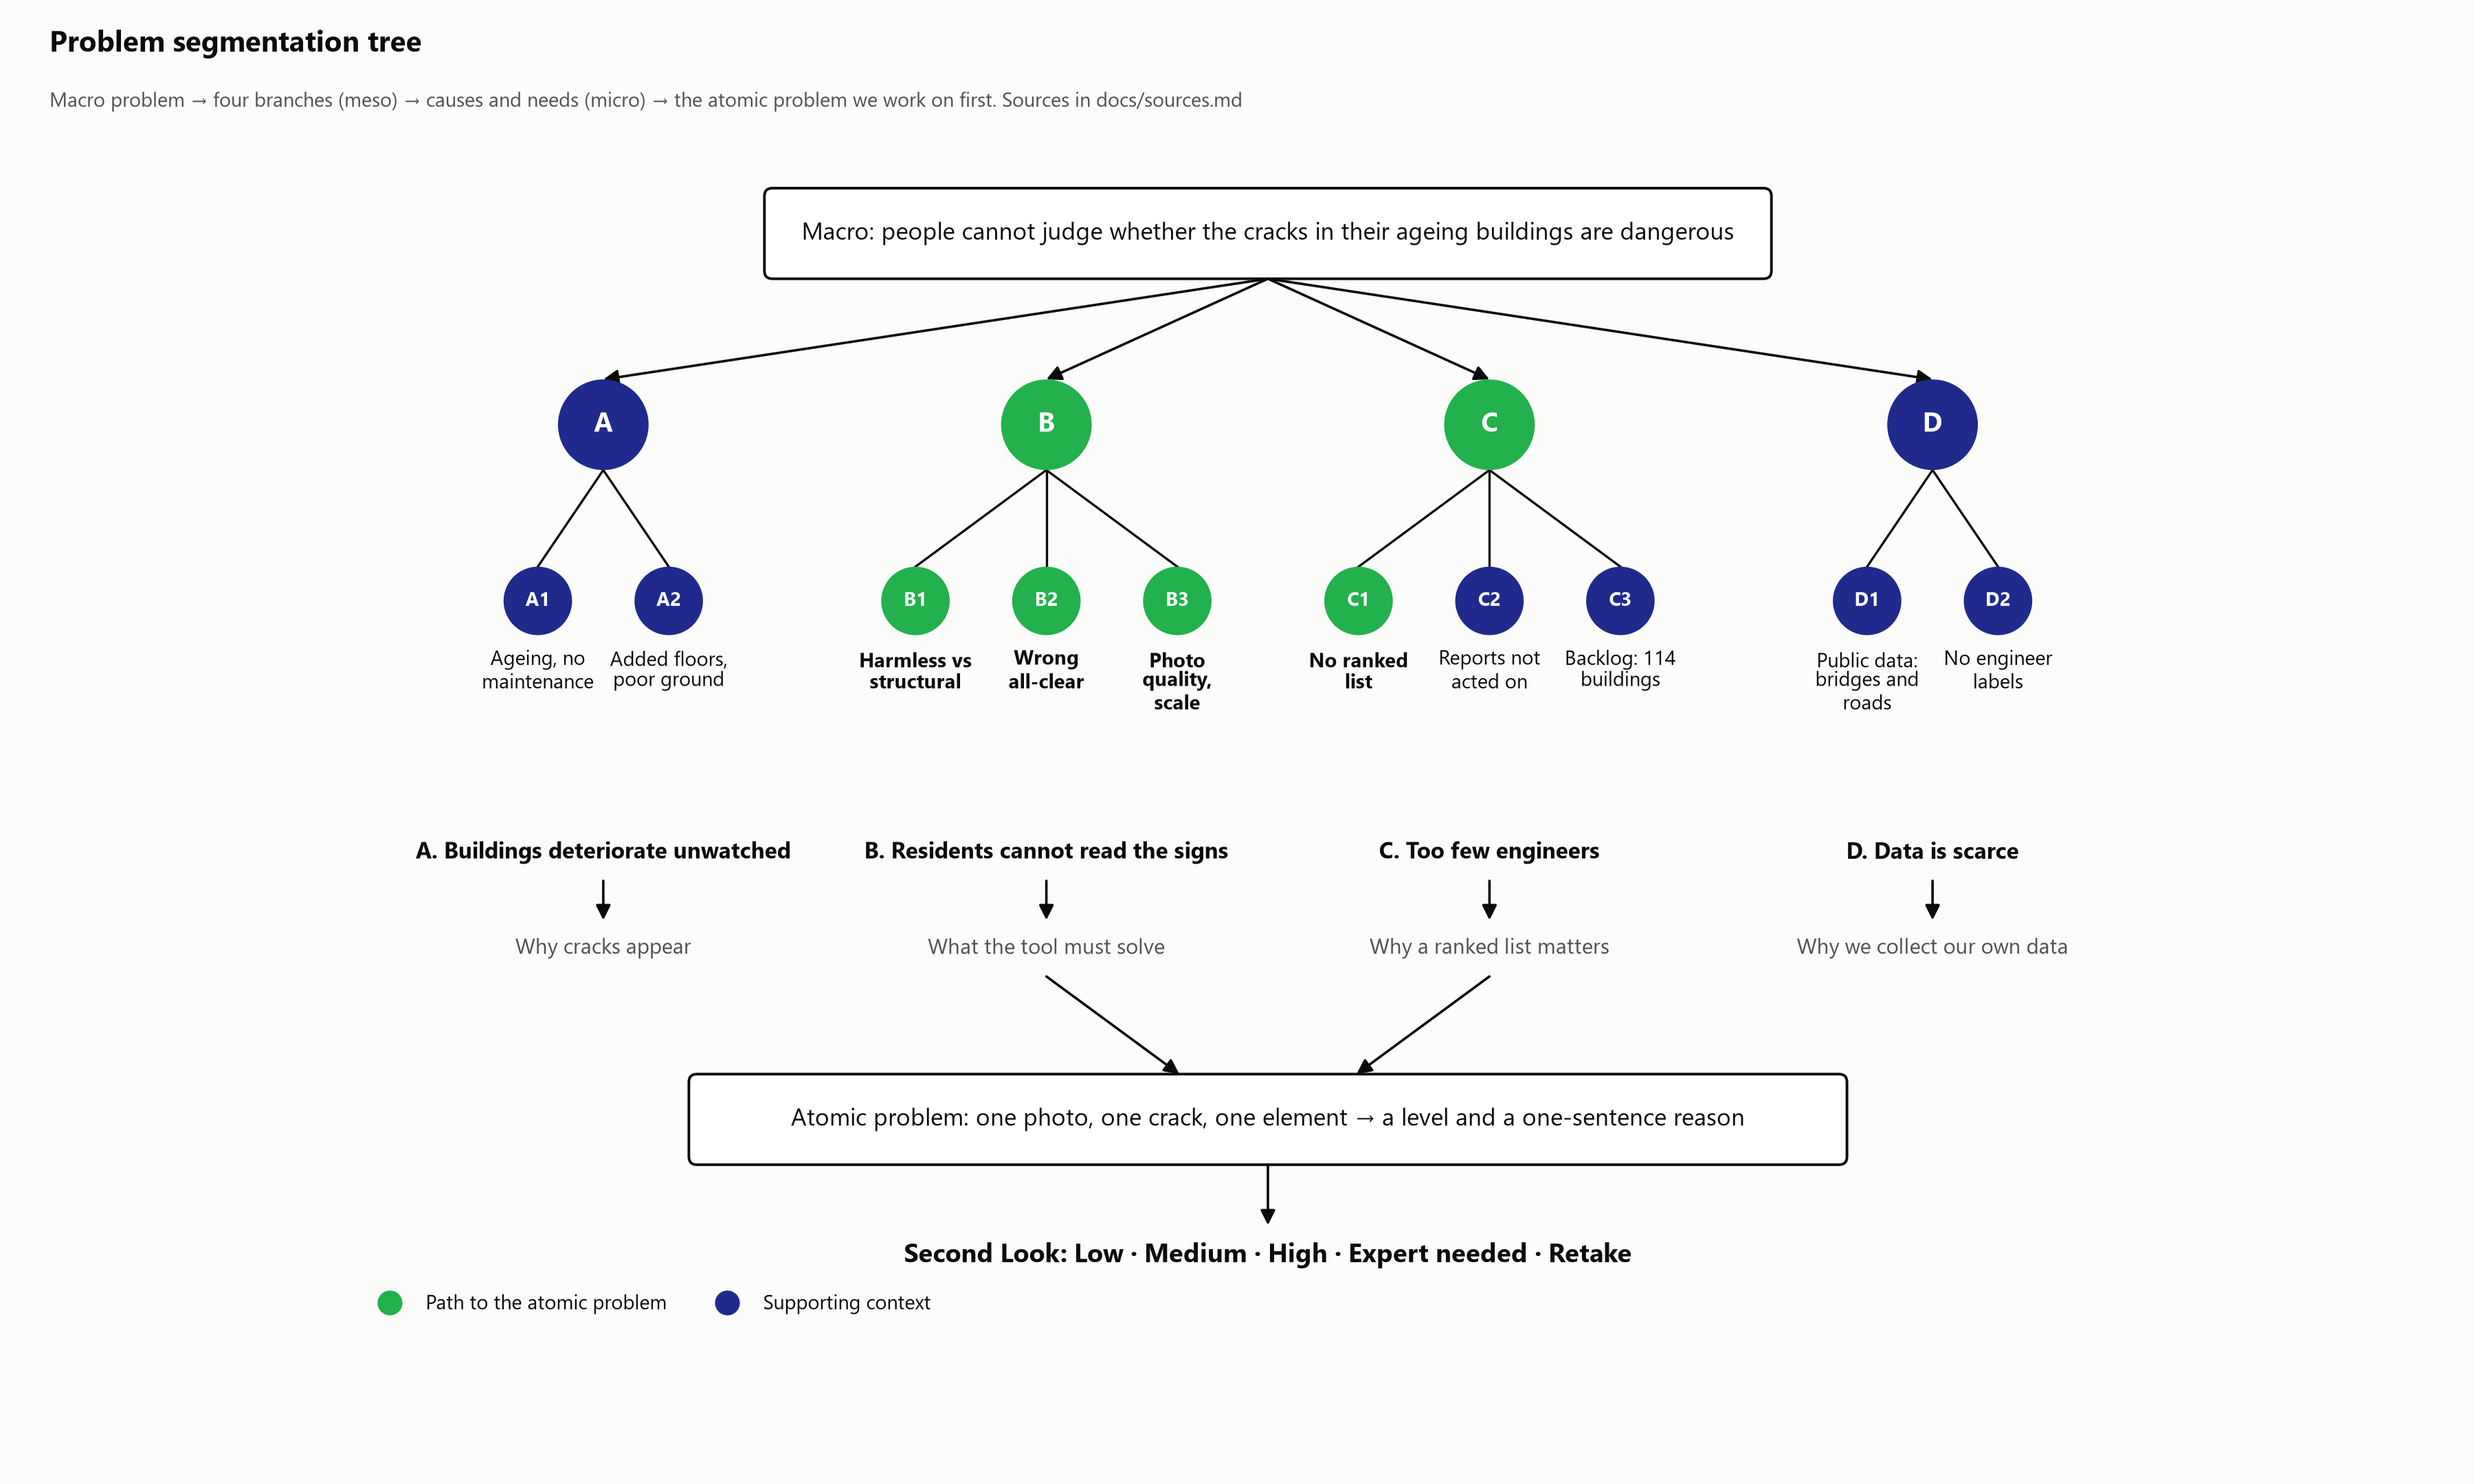
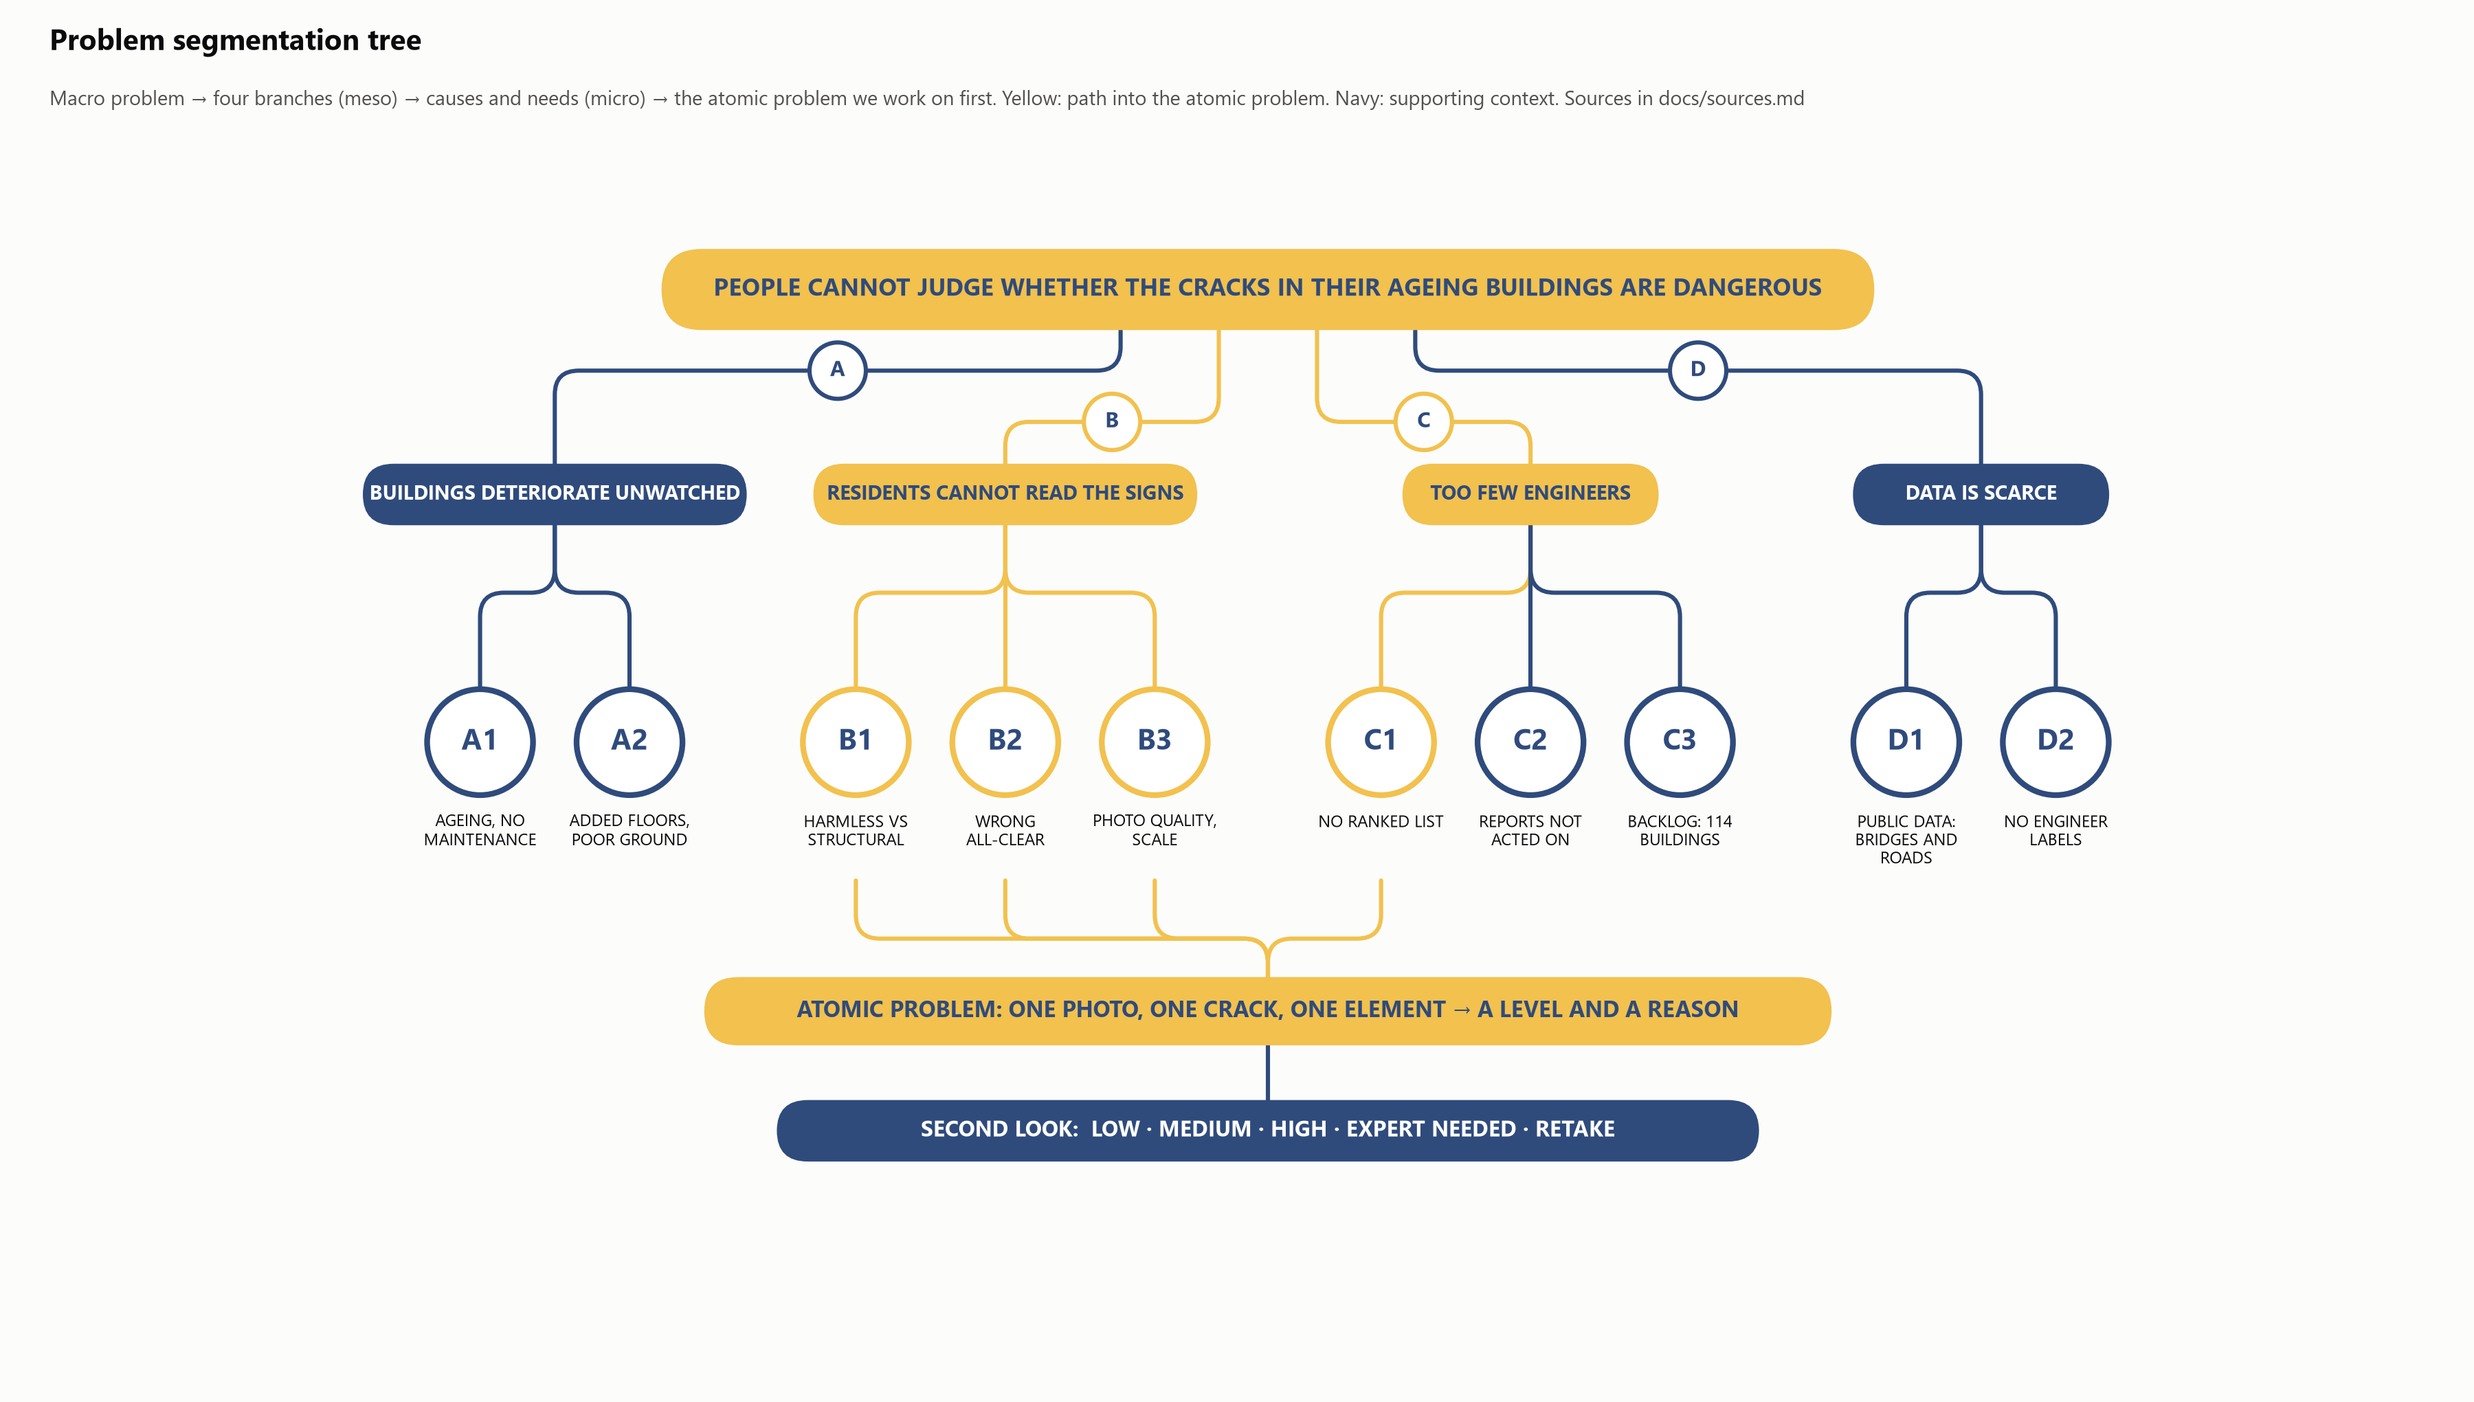
Segmentation tree: flowchart style with yellow path and navy context

diff --git a/src/viz/figures.py b/src/viz/figures.py
@@ -159,69 +159,97 @@ TREE = {
     "D. Data is scarce": ["D1 Public data: bridges and roads", "D2 No engineer labels"],
 }
 ATOMIC_FROM = {"B1", "B2", "B3", "C1"}
-TREE_RESULTS = {"A": "Why cracks appear", "B": "What the tool must solve", "C": "Why a ranked list matters",
-                "D": "Why we collect our own data"}
-TREE_GREEN, TREE_BLUE = "#22b14c", "#1f2a8c"
+TREE_YELLOW, TREE_NAVY = "#F2C14E", "#2F4B7C"
+
+
+def _pill(ax, x, y, w, h, text, fill, ink, size):
+    ax.add_patch(FancyBboxPatch((x - w / 2, y - h / 2), w, h, boxstyle=f"round,pad=0,rounding_size={h / 2}",
+                                facecolor=fill, edgecolor="none", zorder=3))
+    ax.text(x, y, text, ha="center", va="center", color=ink, fontsize=size, weight="bold", zorder=4)
+
+
+def _elbow(ax, x0, y0, x1, y1, ymid, colour, r=0.28):
+    """Vertical down from (x0, y0), across at ymid with rounded corners, down to (x1, y1)."""
+    from matplotlib.path import Path as MPath
+
+    dx = x1 - x0
+    if abs(dx) < 1e-6:
+        verts, codes = [(x0, y0), (x1, y1)], [MPath.MOVETO, MPath.LINETO]
+    else:
+        s, r = (1 if dx > 0 else -1), min(r, abs(dx) / 2)
+        verts = [(x0, y0), (x0, ymid + r), (x0, ymid), (x0 + s * r, ymid), (x1 - s * r, ymid), (x1, ymid),
+                 (x1, ymid - r), (x1, y1)]
+        codes = [MPath.MOVETO, MPath.LINETO, MPath.CURVE3, MPath.CURVE3, MPath.LINETO, MPath.CURVE3, MPath.CURVE3,
+                 MPath.LINETO]
+    from matplotlib.patches import PathPatch
+    ax.add_patch(PathPatch(MPath(verts, codes), facecolor="none", edgecolor=colour, lw=2.2, zorder=1,
+                           capstyle="round"))
+
+
+def _tag(ax, x, y, text, colour):
+    ax.add_patch(plt.Circle((x, y), 0.33, facecolor="white", edgecolor=colour, lw=2.2, zorder=3))
+    ax.text(x, y, text, ha="center", va="center", fontsize=11, weight="bold", color=TREE_NAVY, zorder=4)
 
 
 def segmentation_tree():
-    """Random-forest style: problem box -> branch trees of circles -> results -> atomic box -> final result.
-    Green marks the path into the atomic problem, blue the supporting context."""
+    """Flowchart style: pill nodes, rounded connectors with letter tags, circle leaves with caps labels.
+    Yellow marks the path into the atomic problem, navy the supporting context."""
     import textwrap
 
-    fig, ax = plt.subplots(figsize=(18, 10.8))
+    fig, ax = plt.subplots(figsize=(18, 10.2))
     ax.set_axis_off()
     fig.suptitle("Problem segmentation tree", x=0.02, ha="left", fontsize=15, weight="bold")
-    fig.text(0.02, 0.928, "Macro problem → four branches (meso) → causes and needs (micro) → the atomic problem we work "
-             "on first. Sources in docs/sources.md", fontsize=10.5, color=INK_2)
-    col, r_meso, r_leaf, gap = 4.4, 0.45, 0.34, 1.3
-    y_box, y_meso, y_leaf, y_title, y_result, y_atomic, y_final = 11.2, 9.3, 7.55, 5.05, 4.1, 2.4, 1.05
-    width = col * len(TREE)
+    fig.text(0.02, 0.925, "Macro problem → four branches (meso) → causes and needs (micro) → the atomic problem we work "
+             "on first. Yellow: path into the atomic problem. Navy: supporting context. Sources in docs/sources.md",
+             fontsize=10.5, color=INK_2)
+    leaf_gap, group_gap, r_leaf = 1.75, 0.9, 0.62
+    y_top, y_meso, y_leaf, y_atomic, y_final = 11.0, 8.6, 5.7, 2.55, 1.15
+    xs, x = {}, 0.0
+    for meso, kids in TREE.items():
+        xs[meso] = []
+        for _ in kids:
+            xs[meso].append(x)
+            x += leaf_gap
+        x += group_gap
+    width = x - group_gap - leaf_gap
+    centre = width / 2
     feeds = {code[0] for code in ATOMIC_FROM}
 
-    def circle(x, y, r, colour, text, size):
-        ax.add_patch(plt.Circle((x, y), r, facecolor=colour, edgecolor="none", zorder=3))
-        ax.text(x, y, text, ha="center", va="center", color="white", fontsize=size, weight="bold", zorder=4)
-
-    def arrow(x0, y0, x1, y1):
-        ax.annotate("", xy=(x1, y1), xytext=(x0, y0), zorder=2,
-                    arrowprops=dict(arrowstyle="-|>", color=INK, lw=1.3, mutation_scale=16, shrinkA=0, shrinkB=0))
-
-    box_w = 10.0
-    _box(ax, width / 2 - box_w / 2, y_box - 0.45, box_w, 0.9,
-         "Macro: people cannot judge whether the cracks in their ageing buildings are dangerous",
-         "#FFFFFF", INK, size=12.5, lw=1.4)
+    _pill(ax, centre, y_top, 14.2, 0.95, "PEOPLE CANNOT JUDGE WHETHER THE CRACKS IN THEIR AGEING BUILDINGS ARE DANGEROUS",
+          TREE_YELLOW, TREE_NAVY, 12.5)
+    n = len(TREE)
     for i, (meso, kids) in enumerate(TREE.items()):
         letter = meso[0]
-        cx = col * i + col / 2
-        arrow(width / 2, y_box - 0.45, cx, y_meso + r_meso)
-        circle(cx, y_meso, r_meso, TREE_GREEN if letter in feeds else TREE_BLUE, letter, 14)
-        xs = [cx + (j - (len(kids) - 1) / 2) * gap for j in range(len(kids))]
-        for x, kid in zip(xs, kids):
+        on_path = letter in feeds
+        colour = TREE_YELLOW if on_path else TREE_NAVY
+        mx = sum(xs[meso]) / len(xs[meso])
+        # outer branches leave the top pill further out and turn higher, so no two connectors cross
+        offset = (i - (n - 1) / 2) * 1.15
+        ymid = y_top - 0.95 if abs(offset) > 1 else y_top - 1.55
+        x0 = centre + offset
+        _elbow(ax, x0, y_top - 0.48, mx, y_meso + 0.36, ymid, colour)
+        _tag(ax, (x0 + mx) / 2, ymid, letter, colour)
+        title = meso.split(". ", 1)[1].upper()
+        _pill(ax, mx, y_meso, max(3.0, 0.145 * len(title)), 0.72, title, colour,
+              TREE_NAVY if on_path else "white", 10.5)
+        for lx, kid in zip(xs[meso], kids):
             code, label = kid.split(" ", 1)
-            on_path = code in ATOMIC_FROM
-            ax.plot([cx, x], [y_meso - r_meso, y_leaf + r_leaf], color=INK, lw=1.2, zorder=1)
-            circle(x, y_leaf, r_leaf, TREE_GREEN if on_path else TREE_BLUE, code, 10)
-            ax.text(x, y_leaf - r_leaf - 0.14, textwrap.fill(label, 13, break_on_hyphens=False), ha="center", va="top", fontsize=10.5,
-                    color=INK, weight="bold" if on_path else "normal", linespacing=1.12)
-        ax.text(cx, y_title, meso, ha="center", va="center", fontsize=12, weight="bold", color=INK)
-        arrow(cx, y_title - 0.28, cx, y_result + 0.28)
-        ax.text(cx, y_result, TREE_RESULTS[letter], ha="center", va="center", fontsize=11, color=INK_2)
-        if letter in feeds:
-            arrow(cx, y_result - 0.28, width / 2 + (cx - width / 2) * 0.4, y_atomic + 0.45)
-    atomic_w = 11.5
-    _box(ax, width / 2 - atomic_w / 2, y_atomic - 0.45, atomic_w, 0.9,
-         "Atomic problem: one photo, one crack, one element → a level and a one-sentence reason",
-         "#FFFFFF", INK, size=12.5, lw=1.4)
-    arrow(width / 2, y_atomic - 0.45, width / 2, y_final + 0.3)
-    ax.text(width / 2, y_final, "Second Look: Low · Medium · High · Expert needed · Retake",
-            ha="center", va="center", fontsize=13.5, weight="bold", color=INK)
-    ax.legend(handles=[Line2D([], [], marker="o", ls="", markersize=12, color=TREE_GREEN,
-                              label="Path to the atomic problem"),
-                       Line2D([], [], marker="o", ls="", markersize=12, color=TREE_BLUE, label="Supporting context")],
-              loc="lower left", bbox_to_anchor=(0.0, -0.01), ncol=2, frameon=False, fontsize=10.5)
-    ax.set_xlim(-0.3, width + 0.3)
-    ax.set_ylim(0.4, 11.75)
+            leaf_on_path = code in ATOMIC_FROM
+            lc = TREE_YELLOW if leaf_on_path else TREE_NAVY
+            _elbow(ax, mx, y_meso - 0.36, lx, y_leaf + r_leaf, y_meso - 1.15, lc)
+            ax.add_patch(plt.Circle((lx, y_leaf), r_leaf, facecolor="white", edgecolor=lc, lw=3, zorder=3))
+            ax.text(lx, y_leaf, code, ha="center", va="center", fontsize=15, weight="bold", color=TREE_NAVY, zorder=4)
+            ax.text(lx, y_leaf - r_leaf - 0.2, textwrap.fill(label.upper(), 14, break_on_hyphens=False),
+                    ha="center", va="top", fontsize=8.8, color=INK, linespacing=1.15)
+            if leaf_on_path:
+                _elbow(ax, lx, y_leaf - r_leaf - 1.0, centre, y_atomic + 0.4, y_atomic + 0.85, TREE_YELLOW)
+    _pill(ax, centre, y_atomic, 13.2, 0.8, "ATOMIC PROBLEM: ONE PHOTO, ONE CRACK, ONE ELEMENT → A LEVEL AND A REASON",
+          TREE_YELLOW, TREE_NAVY, 12)
+    _elbow(ax, centre, y_atomic - 0.4, centre, y_final + 0.36, y_final + 0.9, TREE_NAVY)
+    _pill(ax, centre, y_final, 11.5, 0.72, "SECOND LOOK:  LOW · MEDIUM · HIGH · EXPERT NEEDED · RETAKE",
+          TREE_NAVY, "white", 11.5)
+    ax.set_xlim(-2.0, width + 2.0)
+    ax.set_ylim(0.6, 11.6)
     ax.set_aspect("equal")
     return fig
 

diff --git a/spec/features/figures.md b/spec/features/figures.md
@@ -9,7 +9,7 @@ Every figure is drawn from the repo's own rules and data map, so it changes when
 | `01_pipeline.png` | Photo-to-triage pipeline, coloured by learned / written rule / human | Deck slide 5, `tech_stack.md` |
 | `02_decision_flow.png` | Order of checks: Retake, Expert needed, matrix, engineer review | `triage.matrix.assess()` |
 | `03_risk_matrix.png` | Width band x pattern -> level | `triage.matrix.MATRIX` (read at run time) |
-| `04_segmentation_tree.png` | Decision-forest style tree: macro box, four branches of circles, results, atomic box; green = path to the atomic problem | `docs/segmentation_tree.md` |
+| `04_segmentation_tree.png` | Flowchart-style tree: macro pill, four branch pills with letter tags, micro circles, atomic pill, final output; yellow = path to the atomic problem, navy = context | `docs/segmentation_tree.md` |
 | `05_data_coverage.png` | Which data source feeds which pipeline stage | `docs/data_map.md`, section 1 |
 | `06_dataset_sizes.png` | Image counts and licences of public sets vs our target data | `docs/data_map.md`, section 2 |
 | `07_confusion_template.png` | TP / FN / FP / TN and the full 3 x 5 confusion matrix, no counts | `spec/features/evaluation.md` |

diff --git a/spec/decisions.md b/spec/decisions.md
@@ -73,5 +73,5 @@ Decision: the hackathon beta trains the crack-finding step on public data. Patte
 
 ## D16 (2026-10-26): the segmentation tree shows only what the tool works on
 Out-of-scope items (unauthorised construction, earthquake triggers, rebar and foundations, overridden warnings) and the Phase 3 item (soil erosion) are removed from the tree. The "Warnings overridden" branch is gone; "Data is scarce" becomes branch D. What the tool does not cover is stated once, in `spec/constitution/mission.md`.
-The tree figure is redrawn as a decision-forest diagram: problem box, branch trees of circles, results, atomic box, final output. Green marks the path into the atomic problem (B1, B2, B3, C1), blue the supporting context.
+The tree figure is redrawn as a flowchart: rounded pills for the macro problem and the four branches, letter tags on the connectors, circles for the micro items, then the atomic problem and the final output. Yellow marks the path into the atomic problem (B, C, B1, B2, B3, C1), navy the supporting context.
 Reason: team feedback; out-of-scope nodes were unnecessary detail and the old box layout was hard to read.

diff --git a/docs/segmentation_tree.md b/docs/segmentation_tree.md
@@ -5,7 +5,7 @@ Only what the tool works on (`spec/decisions.md` D16). What it does not cover is
 
 ![Segmentation tree](../figures/04_segmentation_tree.png)
 
-Green: the path into the atomic problem. Blue: supporting context.
+Yellow: the path into the atomic problem. Navy: supporting context.
 
 ## Macro
 People live in ageing, unsupervised buildings and cannot judge whether the cracks they see are dangerous.
@@ -59,8 +59,8 @@ graph TD
   B3 --> AT
   C1 --> AT
   AT --> R["Second Look: Low, Medium, High, Expert needed, Retake"]
-  classDef path fill:#22b14c,stroke:#22b14c,color:#fff;
-  classDef context fill:#1f2a8c,stroke:#1f2a8c,color:#fff;
+  classDef path fill:#F2C14E,stroke:#F2C14E,color:#2F4B7C;
+  classDef context fill:#2F4B7C,stroke:#2F4B7C,color:#fff;
   class B,C,B1,B2,B3,C1 path;
   class A,D,A1,A2,C2,C3,D1,D2 context;
 ```
